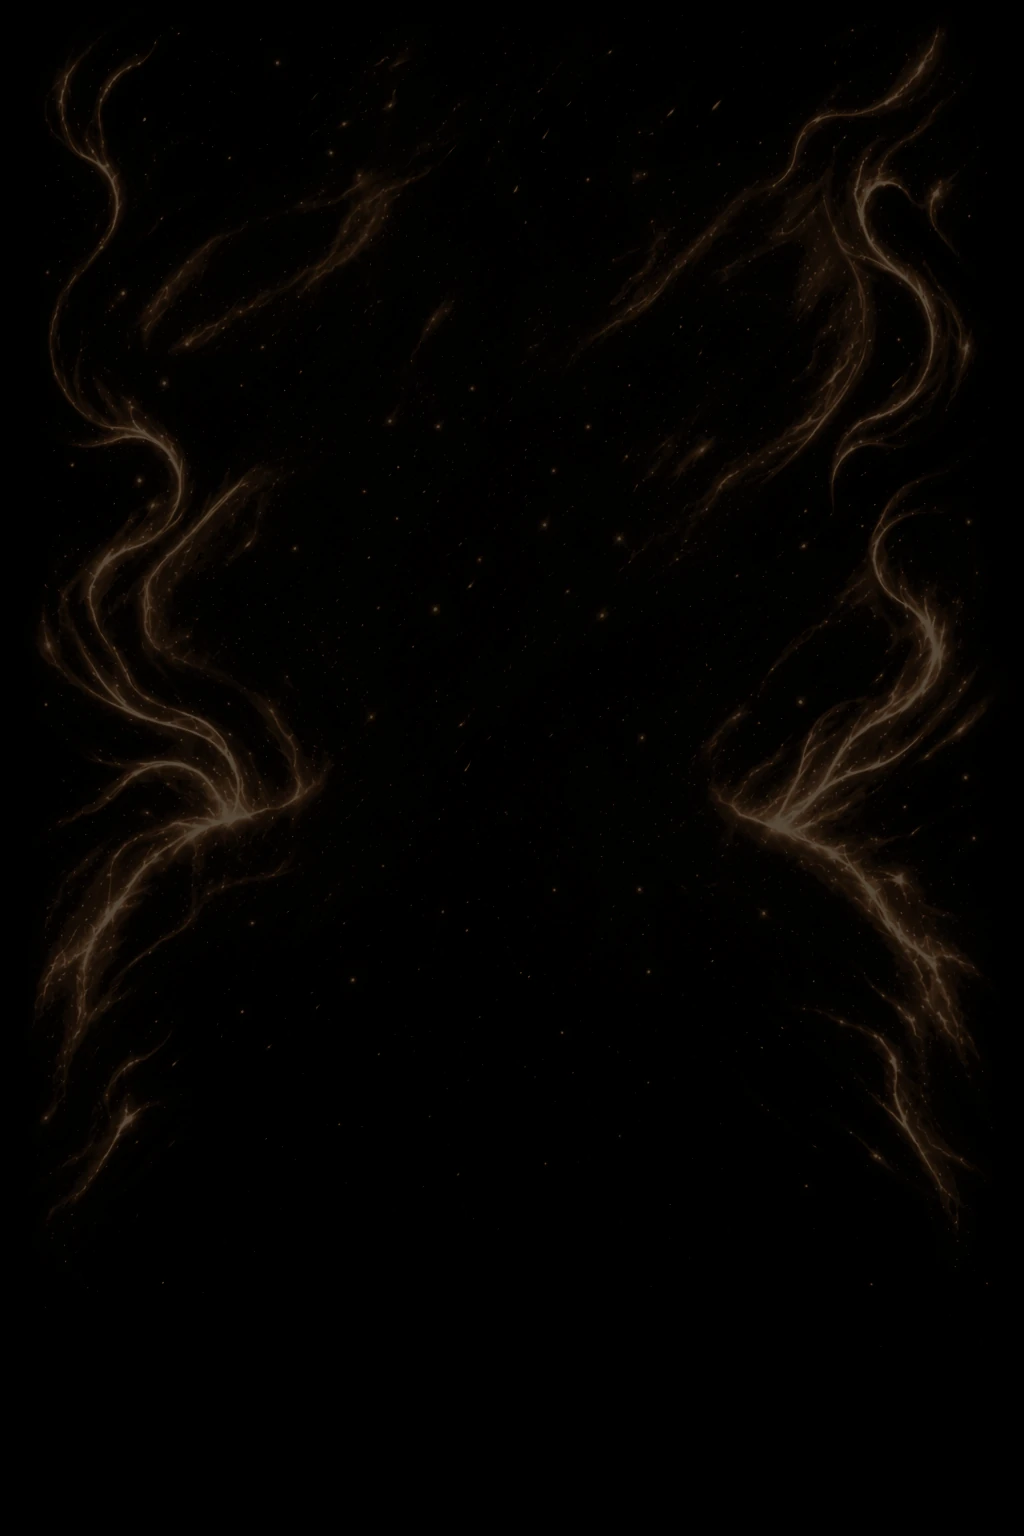
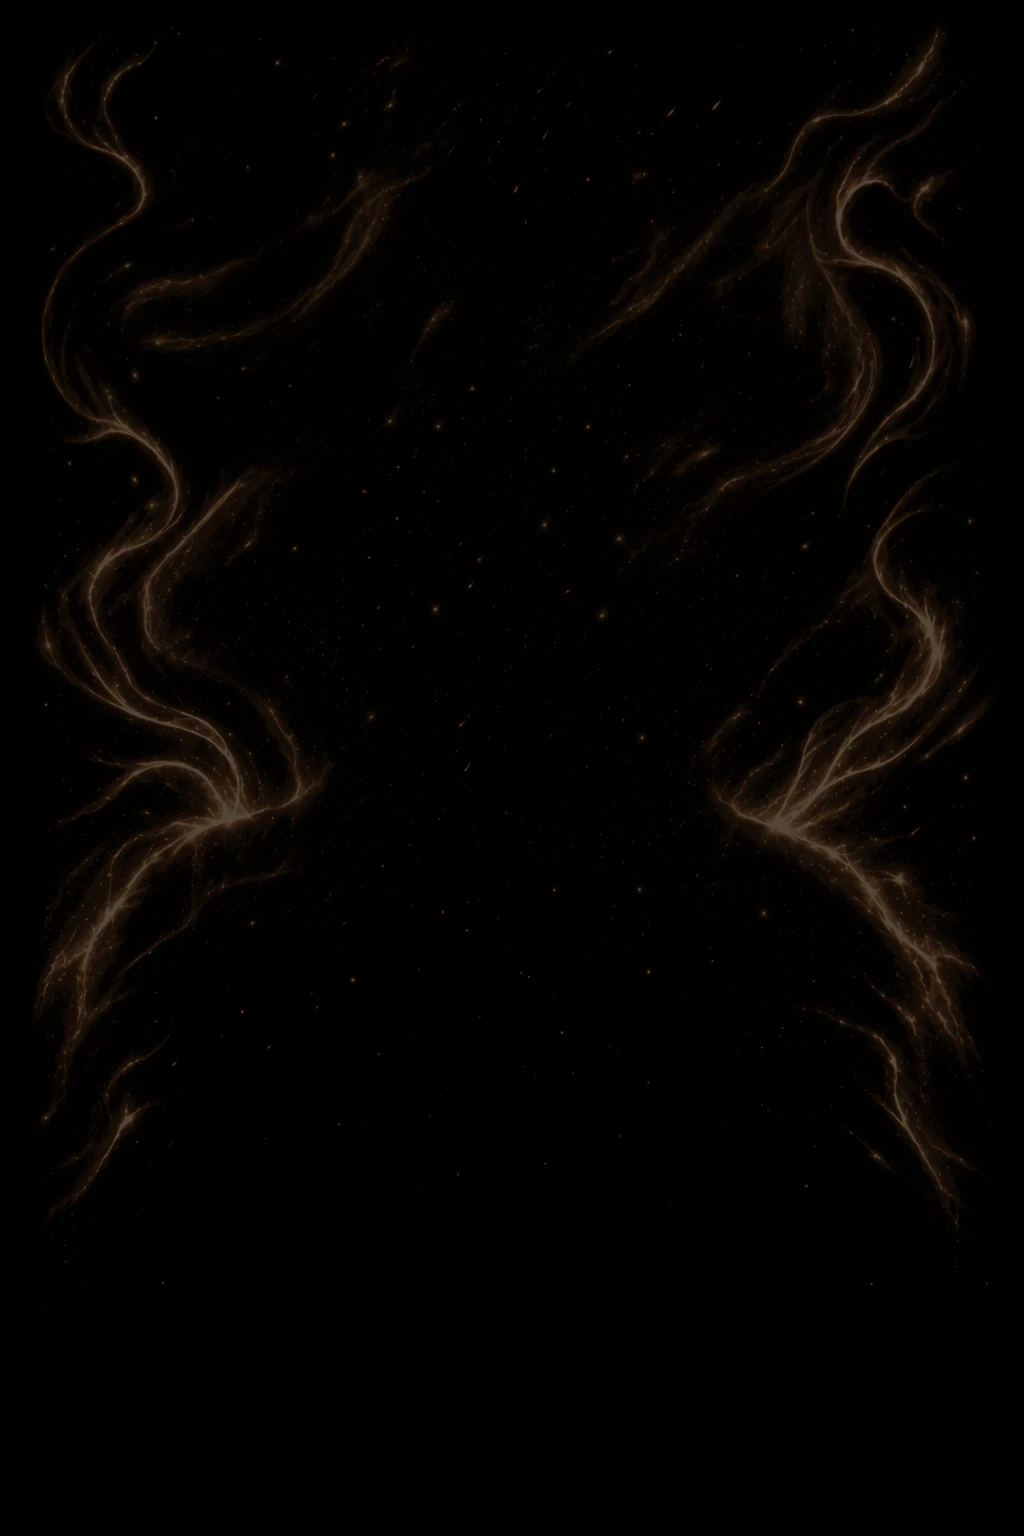
Card: level review round 2 — yellow Gold, more Diamond shimmer, own swirls
Owner review (2026-09-26): Gold needed more changes (no notes); "More
shimmer on daimond. And are we able to do slightly different spiral
effects on each? Basically same effect but not all the exact same?"

- Gold is a true yellow gold: the amber read too close to Bronze's copper.
  Same toned-down strength, still under Platinum.
- Each level's energy gets its own swirls (LEVEL_LOOKS swirls, applied by
  scripts/card-art.ts before recoloring): same currents, different curls.
  Every swirl stays more than its radius from the field's hot nodes, so
  the energy still leaves the shoulders; Platinum keeps its approved field.
- Diamond shimmers more: more holo bands (frame 3, face 2, energy 1.8
  cycles), frame sheen x2.4, and the face shimmer at full strength with
  the spectrum twice across its band.
- Bronze/Silver baselines stay as approved until the owner sees their new
  swirls (Silver's check reports the change until then).

diff --git a/lib/finishArt.ts b/lib/finishArt.ts
@@ -48,7 +48,17 @@ export type LevelLook = {
   live?: Recolor;
   /** How strongly the energy leaves the player (Platinum is 1). */
   energy: number;
+  /** Twists in this level's copy of the energy, so no two levels' currents
+   * are identical (owner review, 2026-09-26: "same effect but not all the
+   * exact same"). */
+  swirls: Swirl[];
 };
+
+/** Texture within `radius` card units of (x, y) turns by up to `turn`
+ * radians at the center, easing to none at the edge. Keep every swirl more
+ * than its radius from the field's hot nodes (223,796 and 762,805), so the
+ * energy still leaves the shoulders. */
+export type Swirl = { x: number; y: number; radius: number; turn: number };
 
 /** Diamond's foil spectrum: cyan, blue, violet, magenta, gold, mint. */
 export const HOLO_SPECTRUM = ["#35f0ff", "#5b7cff", "#b150ff", "#ff4fd8", "#ffd166", "#47ffb5"];
@@ -64,6 +74,7 @@ export const LEVEL_LOOKS: Record<Exclude<FinishKey, "platinum">, LevelLook> = {
     field: { ramp: [[0, "#000000"], [0.35, "#0e0703"], [0.65, "#4a2a12"], [0.88, "#b27442"], [1, "#f1cfa4"]], gain: 0.35 },
     live: { ramp: [[0, "#000000"], [0.2, "#1a0e05"], [0.45, "#5e3517"], [0.65, "#a8622c"], [0.8, "#d99159"], [0.92, "#f2c393"], [1, "#fff1e0"]] },
     energy: 0.3,
+    swirls: [{ x: 170, y: 280, radius: 230, turn: 0.9 }, { x: 840, y: 330, radius: 230, turn: -0.8 }],
   },
   // Cool steel, faint energy. Owner-approved 2026-09-26.
   silver: {
@@ -72,23 +83,27 @@ export const LEVEL_LOOKS: Record<Exclude<FinishKey, "platinum">, LevelLook> = {
     field: { ramp: [[0, "#000000"], [0.3, "#0b0d10"], [0.6, "#434b56"], [0.85, "#aeb9c6"], [1, "#ffffff"]], gain: 0.6 },
     live: { ramp: [[0, "#000000"], [0.2, "#121417"], [0.45, "#3f464f"], [0.65, "#7d8793"], [0.8, "#b9c3ce"], [0.92, "#e6ecf2"], [1, "#ffffff"]] },
     energy: 0.55,
+    swirls: [{ x: 210, y: 420, radius: 240, turn: -0.9 }, { x: 800, y: 240, radius: 250, turn: 0.8 }, { x: 110, y: 1030, radius: 150, turn: 0.7 }],
   },
-  // Warm gold with visible energy, kept a step under Platinum: a darker frame,
-  // dimmer energy and number glow.
+  // True yellow gold (orange amber read too close to Bronze's copper), with
+  // visible energy kept a step under Platinum: darker frame, dimmer energy
+  // and number glow.
   gold: {
-    frame: { ramp: [[0, "#0f0a02"], [0.25, "#3f2a06"], [0.5, "#876014"], [0.7, "#c19434"], [0.85, "#e6c97a"], [1, "#fbf1d2"]] },
-    window: { ramp: [[0, "#040301"], [0.3, "#171004"], [0.6, "#4a320e"], [0.85, "#b07f27"], [1, "#f5e2ad"]] },
-    field: { ramp: [[0, "#000000"], [0.2, "#100801"], [0.45, "#573206"], [0.7, "#d4841b"], [0.88, "#ffcd6a"], [1, "#fffaee"]], gain: 0.7 },
-    live: { ramp: [[0, "#000000"], [0.15, "#170d02"], [0.35, "#4f3005"], [0.55, "#9f650d"], [0.72, "#d18f24"], [0.86, "#efc46a"], [1, "#fff5e0"]] },
+    frame: { ramp: [[0, "#110c02"], [0.25, "#463507"], [0.5, "#947214"], [0.7, "#cfaa38"], [0.85, "#eed683"], [1, "#fdf6dc"]] },
+    window: { ramp: [[0, "#040301"], [0.3, "#181205"], [0.6, "#52400f"], [0.85, "#bf9a30"], [1, "#fbeebd"]] },
+    field: { ramp: [[0, "#000000"], [0.2, "#100b01"], [0.45, "#5a4608"], [0.7, "#d3a722"], [0.88, "#ffe07a"], [1, "#fffcee"]], gain: 0.7 },
+    live: { ramp: [[0, "#000000"], [0.15, "#181202"], [0.35, "#554005"], [0.55, "#ad840e"], [0.72, "#dfb42a"], [0.86, "#f6dc80"], [1, "#fffbea"]] },
     energy: 0.65,
+    swirls: [{ x: 150, y: 200, radius: 240, turn: 1.1 }, { x: 860, y: 430, radius: 240, turn: -1 }, { x: 880, y: 1040, radius: 150, turn: -0.8 }],
   },
   // The top: a crystal frame and white-hot energy in holographic foil. Its
   // live palette (DIAMOND_PALETTE in lib/cardTheme.ts) is authored.
   diamond: {
-    frame: { ramp: [[0, "#0d1015"], [0.25, "#555f6e"], [0.5, "#b0bfcd"], [0.7, "#eaf2f9"], [0.85, "#ffffff"], [1, "#ffffff"]], holo: { colors: HOLO_SPECTRUM, cycles: 2.2, strength: 0.55 } },
-    window: { ramp: [[0, "#030306"], [0.3, "#0c0a14"], [0.6, "#3a3450"], [0.85, "#d6d0ee"], [1, "#ffffff"]], holo: { colors: HOLO_SPECTRUM, cycles: 1.3, strength: 0.6 } },
-    field: { ramp: [[0, "#000000"], [0.25, "#0c0d12"], [0.5, "#6c7280"], [0.75, "#e6e9ef"], [0.9, "#ffffff"], [1, "#ffffff"]], holo: { colors: HOLO_SPECTRUM, cycles: 1.3, strength: 0.9 }, gain: 1.2 },
+    frame: { ramp: [[0, "#0d1015"], [0.25, "#555f6e"], [0.5, "#b0bfcd"], [0.7, "#eaf2f9"], [0.85, "#ffffff"], [1, "#ffffff"]], holo: { colors: HOLO_SPECTRUM, cycles: 3, strength: 0.6 } },
+    window: { ramp: [[0, "#030306"], [0.3, "#0c0a14"], [0.6, "#3a3450"], [0.85, "#d6d0ee"], [1, "#ffffff"]], holo: { colors: HOLO_SPECTRUM, cycles: 2, strength: 0.6 } },
+    field: { ramp: [[0, "#000000"], [0.25, "#0c0d12"], [0.5, "#6c7280"], [0.75, "#e6e9ef"], [0.9, "#ffffff"], [1, "#ffffff"]], holo: { colors: HOLO_SPECTRUM, cycles: 1.8, strength: 0.9 }, gain: 1.2 },
     energy: 1,
+    swirls: [{ x: 230, y: 250, radius: 260, turn: -1.3 }, { x: 770, y: 320, radius: 260, turn: 1.3 }, { x: 100, y: 560, radius: 170, turn: 0.9 }, { x: 900, y: 1020, radius: 150, turn: 0.9 }],
   },
 };
 
@@ -156,6 +171,26 @@ export function pixelRecolor(spec: Recolor, width: number, height: number) {
     const original = [r, g, b];
     for (let c = 0; c < 3; c++) out[c] = Math.min(255, (mapped[c] * (1 - keep) + original[c] * keep) * gain);
   };
+}
+
+/** Where output pixel (x, y) samples from, undoing each swirl. `unit` is
+ * image pixels per card unit. */
+export function swirlSource(x: number, y: number, swirls: Swirl[], unit: number): [number, number] {
+  let sx = x;
+  let sy = y;
+  for (const s of swirls) {
+    const cx = s.x * unit;
+    const cy = s.y * unit;
+    const r = s.radius * unit;
+    const dx = sx - cx;
+    const dy = sy - cy;
+    const d = Math.hypot(dx, dy);
+    if (d >= r) continue;
+    const a = -s.turn * (1 - d / r) ** 2;
+    sx = cx + dx * Math.cos(a) - dy * Math.sin(a);
+    sy = cy + dx * Math.sin(a) + dy * Math.cos(a);
+  }
+  return [sx, sy];
 }
 
 /** Recolor a CSS hex color (#rgb, #rgba, #rrggbb or #rrggbbaa) through a

diff --git a/scripts/card-art.ts b/scripts/card-art.ts
@@ -20,14 +20,15 @@
  * derived from the approved B3 reference) → finishes/platinum/field.webp (q90).
  * Bronze / Silver / Gold / Diamond: the finished Platinum plate and field,
  * recolored through each level's look (lib/finishArt.ts); the plate's frame and
- * window take separate ramps.
+ * window take separate ramps, and each level's field gets its own swirls so no
+ * two levels' currents are identical.
  * This edits supplied, authored pixels; it never draws metal (Plan v4).
  */
 import { mkdirSync } from "node:fs";
 import { join } from "node:path";
 import sharp from "sharp";
 import { FRAME_WINDOW, MASTER_W } from "../lib/cardGeometry";
-import { LEVEL_LOOKS, pixelRecolor, type Recolor } from "../lib/finishArt";
+import { LEVEL_LOOKS, pixelRecolor, swirlSource, type Recolor, type Swirl } from "../lib/finishArt";
 
 const PLATE_SOURCE = join("design", "reference", "platinum-plate-source.png");
 const FIELD_SOURCE = join("design", "reference", "platinum-field-source.png");
@@ -132,6 +133,33 @@ function recolor(pixels: Buffer, width: number, height: number, channels: number
   return out;
 }
 
+/** Twist an image by a level's swirls (bilinear resample). */
+function twist(pixels: Buffer, width: number, height: number, channels: number, swirls: Swirl[]): Buffer {
+  const unit = width / MASTER_W;
+  const out = Buffer.from(pixels);
+  for (let y = 0; y < height; y++) {
+    for (let x = 0; x < width; x++) {
+      const [sx, sy] = swirlSource(x, y, swirls, unit);
+      if (sx === x && sy === y) continue;
+      const x0 = Math.max(0, Math.min(width - 2, Math.floor(sx)));
+      const y0 = Math.max(0, Math.min(height - 2, Math.floor(sy)));
+      const fx = Math.max(0, Math.min(1, sx - x0));
+      const fy = Math.max(0, Math.min(1, sy - y0));
+      const a = (y0 * width + x0) * channels;
+      const b = a + channels;
+      const c = a + width * channels;
+      const d = c + channels;
+      const o = (y * width + x) * channels;
+      for (let k = 0; k < channels; k++) {
+        out[o + k] = Math.round(
+          pixels[a + k] * (1 - fx) * (1 - fy) + pixels[b + k] * fx * (1 - fy) + pixels[c + k] * (1 - fx) * fy + pixels[d + k] * fx * fy,
+        );
+      }
+    }
+  }
+  return out;
+}
+
 async function writeWebp(pixels: Buffer, width: number, height: number, channels: 3 | 4, file: string, quality: number) {
   mkdirSync(join(file, ".."), { recursive: true });
   await sharp(pixels, { raw: { width, height, channels } }).webp({ quality, effort: 6 }).toFile(file);
@@ -147,7 +175,8 @@ async function main() {
 
   for (const [level, look] of Object.entries(LEVEL_LOOKS)) {
     await writeWebp(recolor(plate, W, H, 3, look.frame, look.window, mask), W, H, 3, join(finishDir(level), "plate.webp"), 92);
-    await writeWebp(recolor(field.data, fw, fh, 3, look.field), fw, fh, 3, join(finishDir(level), "field.webp"), 90);
+    const own = twist(field.data, fw, fh, 3, look.swirls);
+    await writeWebp(recolor(own, fw, fh, 3, look.field), fw, fh, 3, join(finishDir(level), "field.webp"), 90);
   }
 }
 

diff --git a/tests/finishArt.test.ts b/tests/finishArt.test.ts
@@ -1,6 +1,6 @@
 import { describe, expect, it } from "vitest";
 import { DIAMOND_PALETTE, FINISHES, FINISH_ORDER, PLATINUM_PALETTE } from "../lib/cardTheme";
-import { LEVEL_LOOKS, brightness, derivePalette, pixelRecolor, rampTable, recolorHex } from "../lib/finishArt";
+import { LEVEL_LOOKS, brightness, derivePalette, pixelRecolor, rampTable, recolorHex, swirlSource } from "../lib/finishArt";
 
 // Level looks: Bronze, Silver and Gold derive their live colors from
 // Platinum's through the same ramps that recolor their art; Diamond's are
@@ -17,13 +17,15 @@ function colors(value: unknown): string[] {
 }
 
 describe("recolorHex", () => {
+  const top = gold.ramp[gold.ramp.length - 1][1];
+
   it("maps brightness through the ramp's ends", () => {
-    expect(recolorHex("#000000", gold)).toBe("#000000");
-    expect(recolorHex("#ffffff", gold)).toBe("#fff5e0");
+    expect(recolorHex("#000000", gold)).toBe(gold.ramp[0][1]);
+    expect(recolorHex("#ffffff", gold)).toBe(top);
   });
 
   it("keeps alpha and accepts short forms", () => {
-    expect(recolorHex("#fff9", gold)).toBe("#fff5e099");
+    expect(recolorHex("#fff9", gold)).toBe(`${top}99`);
     expect(recolorHex("#b8efff60", gold).slice(7)).toBe("60");
     expect(recolorHex("#fff", gold)).toBe(recolorHex("#ffffff", gold));
   });
@@ -55,6 +57,23 @@ describe("holographic foil", () => {
   it("keeps darks dark and highlights white", () => {
     expect(Math.max(...at(400, 400, 0, 0, 0))).toBe(0);
     expect(Math.min(...at(400, 400, 255, 255, 255))).toBeGreaterThan(245);
+  });
+});
+
+describe("swirls", () => {
+  const NODES = [[223, 796], [762, 805]];
+
+  it("never move the field's hot nodes, so energy still leaves the shoulders", () => {
+    for (const look of Object.values(LEVEL_LOOKS)) {
+      for (const [x, y] of NODES) expect(swirlSource(x, y, look.swirls, 1)).toEqual([x, y]);
+      for (const s of look.swirls) for (const [x, y] of NODES) expect(Math.hypot(x - s.x, y - s.y)).toBeGreaterThan(s.radius);
+    }
+  });
+
+  it("give every level its own currents", () => {
+    const moved = (swirls: typeof LEVEL_LOOKS.gold.swirls) => swirlSource(170, 300, swirls, 1).map(Math.round).join();
+    const all = Object.values(LEVEL_LOOKS).map((look) => moved(look.swirls));
+    expect(new Set(all).size).toBe(all.length);
   });
 });
 

diff --git a/app/components/card/LiveEffects.tsx b/app/components/card/LiveEffects.tsx
@@ -57,7 +57,8 @@ export function HoloShimmer({ finish, isStatic }: { finish: Finish; isStatic: bo
   const id = useId().replace(/:/g, "");
   const holo = finish.palette.holo;
   if (!holo) return null;
-  const loop = [...holo.colors, holo.colors[0]];
+  // The spectrum twice across the band: tighter color changes shimmer more.
+  const loop = [...holo.colors, ...holo.colors, holo.colors[0]];
   const bands = loop.map((color, i) => `${color} ${((i / (loop.length - 1)) * 100).toFixed(1)}%`).join(", ");
   return <svg aria-hidden data-layer="holo-shimmer" className="pointer-events-none absolute inset-0 h-full w-full" viewBox="0 0 1000 1500" style={{ mixBlendMode: "soft-light" }}>
     <defs><clipPath id={`face-${id}`}><path d={FRAME_WINDOW} /></clipPath></defs>

diff --git a/lib/cardTheme.ts b/lib/cardTheme.ts
@@ -392,9 +392,9 @@ export const DIAMOND_PALETTE: FinishPalette = {
     rimFoil: "#ffd9fb",
     rimCore: "#eafcff",
   },
-  frameSheen: { spot: ["#fff", "#ffd6fa90"], band: ["#7df9ff55", "#ff8af0a0", "#ffffffc0", "#9d7dff70"], strength: 1.6 },
+  frameSheen: { spot: ["#fff", "#ffd6fa90"], band: ["#7df9ff55", "#ff8af0a0", "#ffffffc0", "#9d7dff70"], strength: 2.4 },
   shadow: "#07000f",
-  holo: { colors: HOLO_SPECTRUM, strength: 0.7 },
+  holo: { colors: HOLO_SPECTRUM, strength: 1 },
 };
 
 export const FINISH_ORDER: FinishKey[] = [

diff --git a/public/card/README.md b/public/card/README.md
@@ -5,7 +5,7 @@ Each level has two images in `finishes/<level>/` (`lib/cardAssets.ts`), all **bu
 - `plate.webp`: the frame, background and recessed stat panels. Platinum's comes from the authored source `design/reference/platinum-plate-source.png` (1024×1536, cut from the owner's card art): upscaled 2× to 2048×3072 so phones get a sharp frame, frame centered in the canvas, top and bottom borders mirrored so their notches are centered (owner review, 2026-09-26), sharpened.
 - `field.webp`: the energy currents. Platinum's comes from `design/reference/platinum-field-source.png`: flowing blue-violet foil derived from the approved B3 reference, with all people, numbers, lettering, frame and logos removed. It is not a flattened card.
 
-**Bronze, Silver, Gold, Diamond** are the finished Platinum plate and field recolored by gradient map (owner decision, 2026-09-25): each pixel's brightness picks a color from the level's ramp, so every facet, star and current keeps its shape and only the material changes. The ramps live in `lib/finishArt.ts` (`LEVEL_LOOKS`, one table); the plate's frame and window take separate ramps. The same ramps color the live layers (number, text accents, energy), so they always match the art. Diamond adds holographic foil (spectral colors drifting across the card over its ramp), an authored iridescent palette (`DIAMOND_PALETTE`), a stronger frame sheen and a face shimmer that slides with the light (`HoloShimmer`). The climb is gradual and Gold stays under Platinum (owner review, 2026-09-26). Any file can be replaced by designer art under the same name.
+**Bronze, Silver, Gold, Diamond** are the finished Platinum plate and field recolored by gradient map (owner decision, 2026-09-25): each pixel's brightness picks a color from the level's ramp, so every facet, star and current keeps its shape and only the material changes. The ramps live in `lib/finishArt.ts` (`LEVEL_LOOKS`, one table); the plate's frame and window take separate ramps. The same ramps color the live layers (number, text accents, energy), so they always match the art. Diamond adds holographic foil (spectral colors drifting across the card over its ramp), an authored iridescent palette (`DIAMOND_PALETTE`), a stronger frame sheen and a face shimmer that slides with the light (`HoloShimmer`). The climb is gradual and Gold stays under Platinum (owner review, 2026-09-26). Each level's field also gets its own swirls (`swirls` in `LEVEL_LOOKS`), so no two levels' currents are identical; they stay clear of the hot nodes. Any file can be replaced by designer art under the same name.
 
 A missing file renders the ASSET MISSING state, never a drawn substitute.
 

diff --git a/CARD-REDESIGN-HANDOFF.md b/CARD-REDESIGN-HANDOFF.md
@@ -67,3 +67,5 @@ Round 2, owner: the energy "is starting too far away from the player like it is 
 **The other four levels (plan C3, draft for owner review).** `scripts/card-art.ts` recolors the finished Platinum plate and field into Bronze, Silver, Gold and Diamond by gradient map (`LEVEL_LOOKS` in `lib/finishArt.ts`: one ramp each for frame, window, field and live colors, plus energy strength); `derivePalette` runs Platinum's palette through the same live ramp, so text, number and energy match the art. Fields ship as WebP (Platinum's 2.1 MB PNG is now the source in `design/reference/`; the card drifts 0.01%, inside the check's tolerance). The studio (`/card-preview?master=1`) has a level picker, and `shoot-cards.ts --master` shoots every level. Per-level baselines get committed once the owner approves each look.
 
 **Level review, round 1 (owner, 2026-09-26).** Bronze and Silver approved as drafted. "Gold is good but it almost looks like a higher tier than platinum and diamond need to be even cooler!!! More wild special and holographic. The change needs to be more gradual." Gold keeps its colors with a darker frame, dimmer energy (field gain 0.7, emission 0.65) and a dimmer number glow. Diamond became holographic: `Holo` foil in `lib/finishArt.ts` (spectral bands across the card, overlay-blended so darks stay dark and highlights white) on its frame, face and energy; an authored iridescent `DIAMOND_PALETTE`; frame sheen ×1.6; and `HoloShimmer`, a soft-light spectral band over the card face that slides with the light (color-dodge was tried: it blew out the currents and punched black holes).
+
+**Level review, round 2 (owner, 2026-09-26).** Gold: "more changes" (no notes): the amber read too close to Bronze's copper, so Gold is now a true yellow gold at the same toned-down strength. "More shimmer on diamond. And are we able to do slightly different spiral effects on each? Basically same effect but not all the exact same?" Diamond: more holo bands (frame 3, face 2, energy 1.8 cycles), frame sheen ×2.4, face shimmer at full strength with the spectrum twice across the band. Every level's field now gets its own swirls (`swirls` in `LEVEL_LOOKS`, `swirlSource`), clear of the hot nodes; Platinum keeps its approved field.

diff --git a/design/baselines/README.md b/design/baselines/README.md
@@ -3,7 +3,7 @@
 Owner-approved card renders. `scripts/shoot-cards.ts --check` pixel-compares fresh shots against these to catch accidental drift. The owner's visual approval is the design authority; these files only record it.
 
 - `master-platinum.png`: the Platinum master, approved 2026-09-26 (geometry locked).
-- `master-bronze.png`, `master-silver.png`: approved 2026-09-26 (level review round 1).
+- `master-bronze.png`, `master-silver.png`: approved 2026-09-26 (level review round 1). Their energy has since been given its own swirls at the owner's request; re-shoot them once the owner has seen that (Silver's check reports the change until then).
 - Gold and Diamond: in review.
 
 Check (needs the card dev server against the local `e24cards` database):
